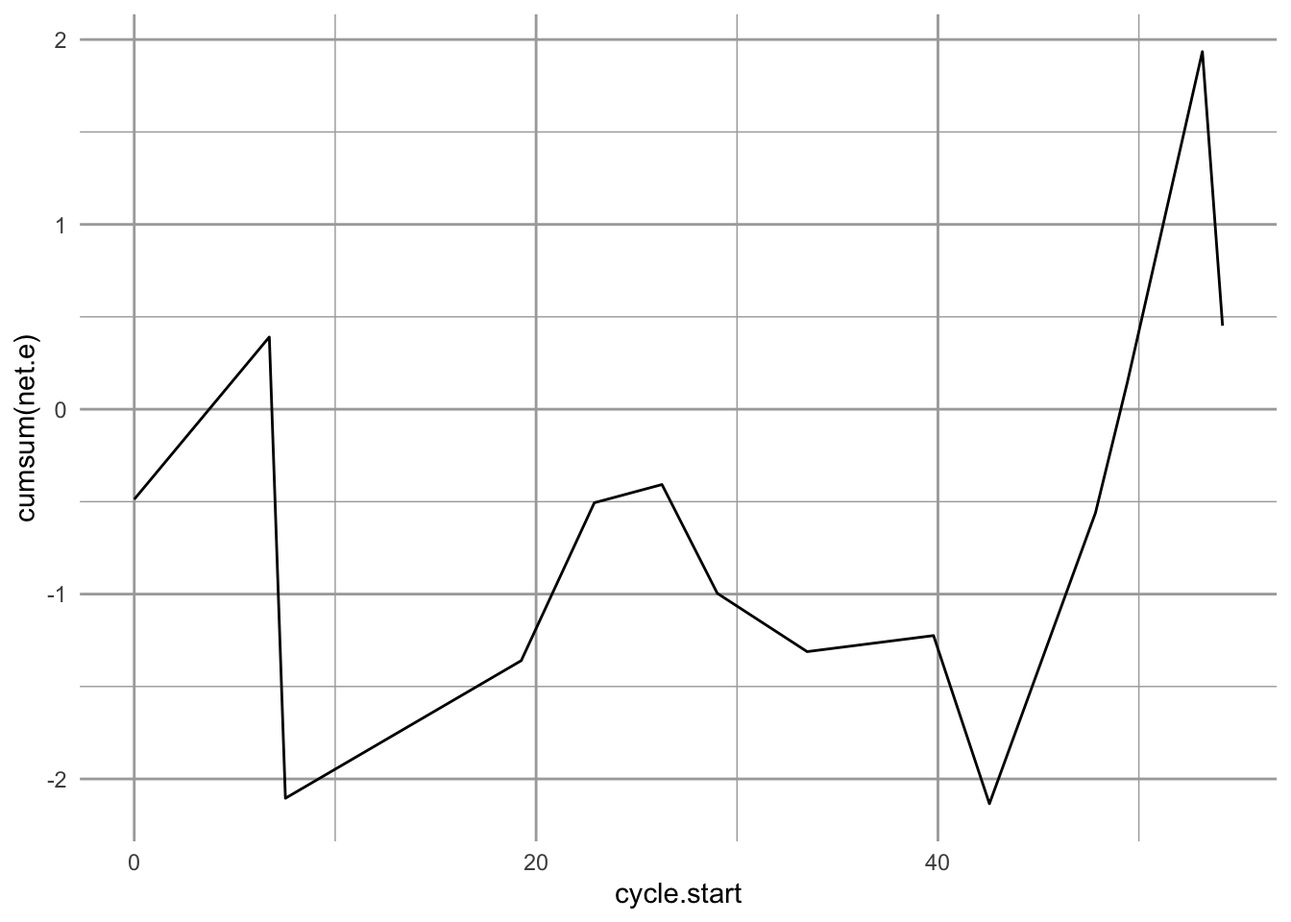
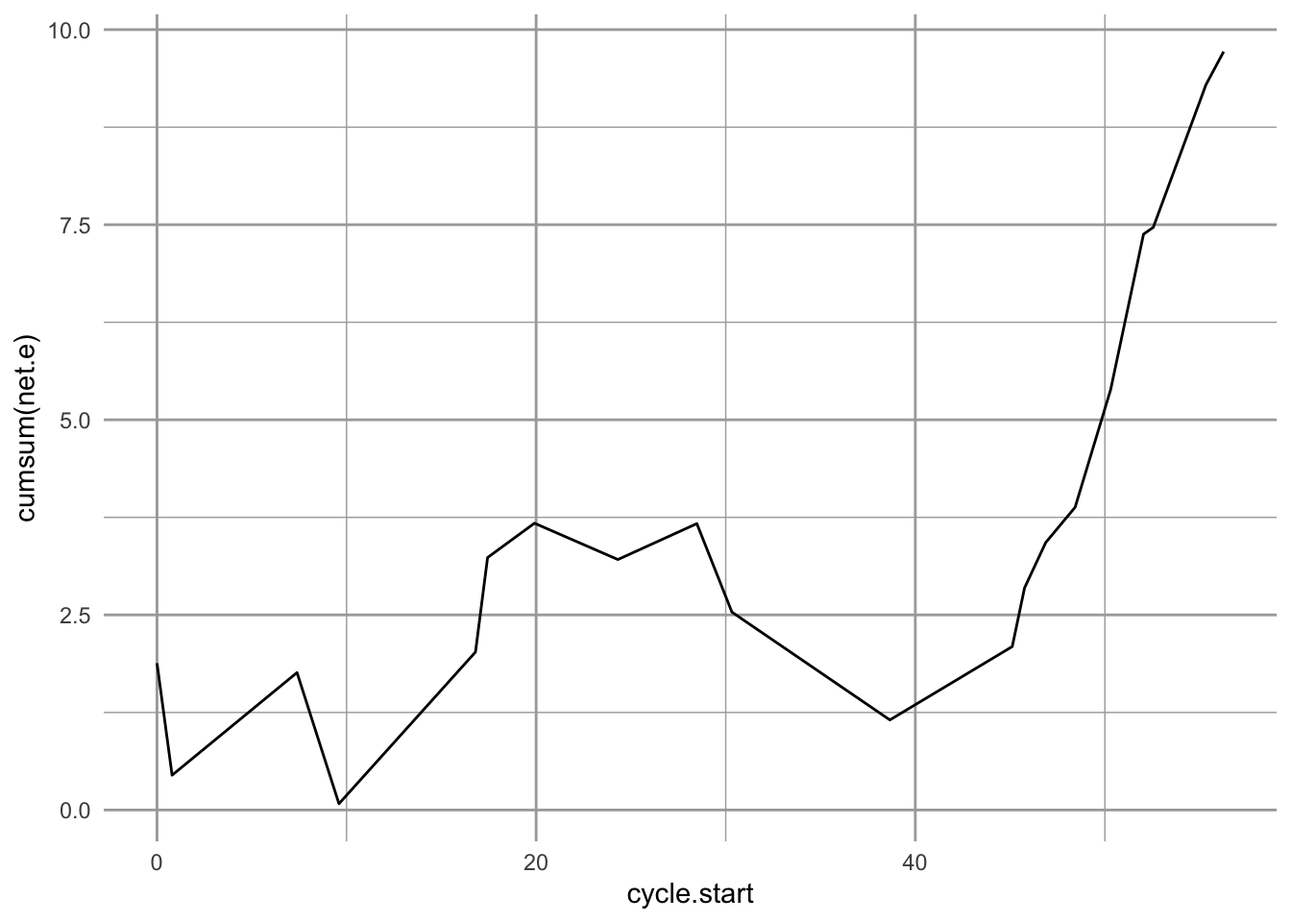
Tuesday_aft

diff --git a/docs/references.html b/docs/references.html
@@ -4,11 +4,11 @@
 
   <meta charset="utf-8" />
   <meta http-equiv="X-UA-Compatible" content="IE=edge" />
-  <title>Primer of Ecology with R</title>
-  <meta name="description" content="Primer of Ecology with R" />
+  <title>3 References | Primer of Ecology with R</title>
+  <meta name="description" content="3 References | Primer of Ecology with R" />
   <meta name="generator" content="bookdown 0.20 and GitBook 2.6.7" />
 
-  <meta property="og:title" content="Primer of Ecology with R" />
+  <meta property="og:title" content="3 References | Primer of Ecology with R" />
   <meta property="og:type" content="book" />
   
   
@@ -16,7 +16,7 @@
   <meta name="github-repo" content="HankStevens/Primer-of-Ecology" />
 
   <meta name="twitter:card" content="summary" />
-  <meta name="twitter:title" content="Primer of Ecology with R" />
+  <meta name="twitter:title" content="3 References | Primer of Ecology with R" />
   
   
   
@@ -31,8 +31,8 @@
   <meta name="apple-mobile-web-app-status-bar-style" content="black" />
   
   
+<link rel="prev" href="oft.html"/>
 
-<link rel="next" href="theory.html"/>
 <script src="libs/jquery-2.2.3/jquery.min.js"></script>
 <link href="libs/gitbook-2.6.7/css/style.css" rel="stylesheet" />
 <link href="libs/gitbook-2.6.7/css/plugin-table.css" rel="stylesheet" />
@@ -171,52 +171,102 @@ code span.wa { color: #60a0b0; font-weight: bold; font-style: italic; } /* Warni
           <div class="page-inner">
 
             <section class="normal" id="section-">
-<div id="header">
-<h1 class="title">Primer of Ecology with R</h1>
-<p class="author"><em>Hank Stevens</em></p>
-<p class="date"><em>2020-08-18</em></p>
+<div id="references" class="section level1">
+<h1><span class="header-section-number">3</span> References</h1>
+
+<div id="refs" class="references">
+<div>
+<p>Banavar, Jayanth R, John Damuth, Amos Maritan, Andrea Rinaldo, Geoffrey B West, and Brian J. Enquist. 2002. “Modelling universality and scaling - communications arising.” <em>Nature</em> 420 (December): 626–27.</p>
 </div>
-<div id="preface" class="section level1 unnumbered">
-<h1>Preface</h1>
-
-<p>In spite of the presumptuous title, my goals for this book are modest. I wrote it as</p>
-<ul>
-<li>the manual I wish I had in graduate school, and</li>
-<li>a primer for our graduate course in Population and Community Ecology at Miami University.<a href="#fn1" class="footnote-ref" id="fnref1"><sup>1</sup></a></li>
-</ul>
-<p>It is my hope that readers can enjoy the  and ignore the R code, if they care to. Toward this end, I tried to make the code easy to ignore, by either putting boxes around it, or simply concentrating code in some sections and keeping it out of other sections.</p>
-<p>It is also my hope that ecologists interested in learning R will have a rich yet gentle introduction to this amazing programming language. Toward that end, I have included some useful functions in an R package called . Like nearly all R packages, it is available through the R projects repositories, the CRAN mirrors. See the Appendix for an introduction to the R language.</p>
-<p>I have a hard time learning something on my own, unless I can  something with the material. Learning ecology is no different, and I find that my students and I learn theory best when we write down formulae, manipulate them, and explore consequences of rearrangement. This typically starts with copying down, verbatim, an expression in a book or paper. Therefore, I encourage readers to take pencil to paper, and fingers to keyboard, and copy expressions they see in this book. After that, make sure that what I have done is correct by trying some of the same rearrangements and manipulations I have done. In addition, try things that aren’t in the book — have fun.</p>
-
-<p>For centuries, musicians and composers have learned their craft in part by  to works of others. Physical embodiment of the musical notes and their sequences helped them learn composition. I have it on great authority that most theoreticians (and other mathematicians) do the same thing — they start by copying down mathematical expressions. This physical process helps get the content under their skin and through their skull. I encourage you to do the same. Whether otherwise indicated or not, let the first assigned problem at the end of each chapter be to copy down, with a pencil and paper, the mathematical expression presented in that chapter. In my own self-guided learning, I have often taken this simple activity for granted and have discounted its value — to my own detriment. I am not surprised how often students also take this activity for granted, and similarly suffer the consequences.  the logic of something is not always enough — sometimes we have to actually  the logic for ourselves.</p>
-<p>Using a text editor (such as the simple one in the R GUI) is one of the huge benefits of using R. Using a text editor to write code and to make extensive comments to yourself (and others!) makes R  interactive. You interact with yourself by putting your thoughts on (virtual) paper, highlighting concepts and details you learn along the way, and documenting clearly what it is you have done. The code and the comments are two halves of the whole. Your comments also allow you to interact with others in a very complete way. You cannot realistically and reliably interact with others unless you put something in writing. If you use an application that is a pure GUI, you would have to describe the buttons you click and be absolutely certain that you leave nothing out and that you can actually communicate what you did. By writing and commenting code, you can send your scripts to anyone (your students, employees, boss, regulatory agency, collaborators).</p>
-
-<p>It may be useful to compare this book to others of a similar ilk. This book bears its closest similarities to two other wonderful primers: Gotelli’s , and Roughgarden’s . I am more familiar with these books than any other introductory texts, and I am greatly indebted to these authors for their contributions to my education and the discipline as a whole.</p>
-<p>My book, geared toward graduate students, includes more advanced material than Gotelli’s primer, but most of the ecological topics are similar. I attempt to start in the same place (e.g., ``What is geometric growth?’’), but I develop many of the ideas much further. Unlike Gotelli, I do not cover life tables at all, but rather, I devote an entire chapter to . I include a chapter on community structure and diversity, including , , , and , as well as . My book also includes code to implement most of the ideas, whereas Gotelli’s primer does not.</p>
-<p>This book also differs from Roughgarden’s primer, in that I use the Open Source R programming language, rather than Matlab, and I do not cover physiology or evolution. My philosphical approach is similar, however, as I tend to ``talk’’ to the reader, and we fall down the rabbit hole together.</p>
-<p>Aside from Gotelli and Roughgarden’s books, this book bears similarity in content to several other wonderful introductions to mathematical ecology or biology. I could have cited repeatedly (and in some places did so) the following: Ellner and Guckenheimer (2006), Gurney and Nisbet (1998), Kingsland (1985), MacArthur (1972), Magurran (2004), May (2001), Morin (1999), Otto and Day (2006), and Vandermeer and Goldberg (2007). Still others exist, but I have not yet had the good fortune to dig too deeply into them.</p>
-
-<p>I am indebted to Scott Meiners and his colleagues for their generous sharing of data, metadata, and statistical summaries from the Buell-Small Succession Study (<a href="http://www.ecostudies.org/bss/" class="uri">http://www.ecostudies.org/bss/</a>), a 50<span class="math inline">\(+\)</span> year study of secondary succession (supported in part by NSF grant DEB-0424605) in the North American temperate deciduous forest biome. I would like to thank Stephen Ellner for Ross’s Bombay death data and for R code and insight over the past few years. I am also indebted to Tom Crist and his colleagues for sharing some of their moth data (work supported by The Nature Conservancy Ecosystem Research Program
-NSF DEB-0235369).</p>
-<p>I am grateful for the generosity of early reviewers and readers, each of whom has contributed much to the quality of this work: Jeremy Ash, Tom Crist, David Gorchov, Raphael Herrera-Herrera, Thomas Petzoldt, James Vonesh, as well as several anonymous reviewers, and the students of our Population and Community Ecology class. I am also grateful for the many conversations and emails shared with four wonderful mathematicians and theoreticians: Jayanth Banavar, Ben bolker, Stephen Ellner, Amit Shukla, and Steve Wright — I never have a conversation with these people without learning something. I have been particularly fortunate to have team-taught Population and Community Ecology at Miami University with two wonderful scientists and educators, Davd Gorchov and Thomas Crist. Only with this experience, of working closely with these colleagues, have I been able to attempt this book. It should go without saying, but I will emphasis, that the mistakes in this book are mine, and there would be many more but for the sharp eyes and insightful minds of many other people.</p>
-<p>I am also deeply indebted to the R Core Development Team for creating, maintaining and pushing forward the R programming language and environment . Like the air I breathe, I cannot imagine my (professional) life without it. I would especially like to thank Friedrich Leisch for the development of , which makes literate programming easy . Because I rely on Aquamacs, ESS, , and a host of other Open Source programs, I am deeply grateful to those who create and distribute these amazing tools.</p>
-<p>A few other R packages bear special mention. First, Ben Bolker’s text  and packages for modeling ecological data ( and ) are broadly applicable. Second, Thomas Petzoldt’s and Karsten Rinke’s  package provides a general computational architecture for ecological models, and implements many wonderful examples . Much of what is done in this primer (especially in chapters 1, 3–6, 8) can be done with , and sometimes done better. Third, Robin Hankin’s  package is an excellent resource for exploring ecological neutral theory (chapter 10) . Last, I relied heavily on the   and  packages .</p>
-<p>Last, and most importantly, I would like to thank those to whom this book is dedicated, whose love and senses of humor make it all worthwhile.</p>
-
+<div>
+<p>Banavar, J R, a Maritan, and a Rinaldo. 1999. “Size and form in efficient transportation networks.” <em>Nature</em> 399 (6732): 130–2.</p>
 </div>
-<div class="footnotes">
-<hr />
-<ol start="1">
-<li id="fn1"><p>Miami University is located in the Miami River valley in Oxford, Ohio, USA; the region is home to the Myaamia tribe that dwelled here prior to European occupation.<a href="index.html#fnref1" class="footnote-back">↩</a></p></li>
-</ol>
+<div>
+<p>Banavar, J. R., M. E. Moses, J. H. Brown, J. Damuth, A. Rinaldo, R. M. Sibly, and A. Maritan. 2010. “A general basis for quarter-power scaling in animals.” <em>Proceedings of the National Academy of Sciences</em> 107 (36): 15816–20.</p>
 </div>
+<div>
+<p>Beckerman, Andrew, Owen L. Petchey, and Peter J. Morin. 2010. “Adaptive Foragers and Community Ecology: Linking Individuals to Communities and Ecosystems.” <em>Functional Ecology</em> 24 (1): 1–6. <a href="https://doi.org/10.1111/j.1365-2435.2009.01673.x">https://doi.org/10.1111/j.1365-2435.2009.01673.x</a>.</p>
+</div>
+<div>
+<p>Boenigk, J., C. Metz, K. Jürgens, and H. Arndt. 2002. “Food Concentration-Dependent Regulation of Food Selectivity of Interception Feeding Bacterivorous Nanoflagellates.” <em>Aquatic Microbial Ecology</em> 27: 195–202.</p>
+</div>
+<div>
+<p>Brown, J H, J F Gillooly, A P Allen, V M Savage, and G B West. 2004. “Toward a metabolic theory of ecology.” <em>Ecology</em> 85 (7): 1771–89.</p>
+</div>
+<div>
+<p>Charnov, E. L. 1976. “Optimal foraging theory: the marginal value theorem.” <em>Theoretical Population Biology</em> 9: 129–36.</p>
+</div>
+<div>
+<p>Ellner, S. P. 2009. “Lecture Notes, Bioee 4600 Theoretical Ecology , Cornell University.”</p>
+</div>
+<div>
+<p>Emlen, J. M. 1966. “The Role of Time and Energy in Food Preference.” <em>The American Naturalist</em> 100: 611–17.</p>
+</div>
+<div>
+<p>Gillooly, James F. 2000. “Effect of body size and temperature on generation time in zooplankton” 22 (2): 241–51.</p>
+</div>
+<div>
+<p>Glazier, Douglas S. 2018. “Rediscovering and Reviving Old Observations and Explanations of Metabolic Scaling in Living Systems.” <em>Systems</em> 6 (4).</p>
+</div>
+<div>
+<p>Kleiber, M. 1932. “Body Size and Metabolism.” <em>Hilgardia</em>, 315–32.</p>
+</div>
+<div>
+<p>MacArthur, R H, and E R Pianka. 1966. “On optimal use of a patchy environment.” <em>The American Naturalist</em> 100: 603–9.</p>
+</div>
+<div>
+<p>Marquet, Pablo A., Andrew P. Allen, James H. Brown, Jennifer A. Dunne, Brian J. Enquist, James F. Gillooly, Patricia A. Gowaty, et al. 2014. “On theory in ecology.” <em>BioScience</em> 64 (8): 701–10.</p>
+</div>
+<div>
+<p>Niklas, Karl J., and Brian J. Enquist. 2001. “Invariant scaling relationships for interspecific plant biomass production rates and body size.” <em>Proceedings of the National Academy of Sciences of the United States of America</em> 98 (5): 2922–7.</p>
+</div>
+<div>
+<p>O’Neill, RV, DL De Angelis, JB Waide, and TFH Allen. 1986. <em>A Hierarchical Concept of Ecosystems.</em> Vol. 23. Monographs in Population Biology. Princeton University Press, Princeton, New Jersey, USA.</p>
+</div>
+<div>
+<p>Rose, Kevin C., Rose A. Graves, Winslow D. Hansen, Brian J. Harvey, Jiangxiao Qiu, Stephen A. Wood, Carly Ziter, and Monica G. Turner. 2017. “Historical foundations and future directions in macrosystems ecology.” <em>Ecology Letters</em> 20 (2): 147–57.</p>
+</div>
+<div>
+<p>Scheiner, Samuel M. 2010. “Toward a conceptual framework for biology.” <em>Quarterly Review of Biology</em> 85 (3): 293–318.</p>
+</div>
+<div>
+<p>Scheiner, S M, and M. R. Willig. 2011. <em>The Theory of Ecology</em>.</p>
+</div>
+<div>
+<p>Sih, A. 2011. “Foraging Theory.” In, edited by S. M. Scheiner and M. R. Willig. Chicago, IL, USA: University of Chicago Press.</p>
+</div>
+<div>
+<p>Stephens, D W, and J R Krebs. 1986. <em>Foraging {T}heory</em>. Edited by J. R. Krebs and T. H. Clutton-Brock. Monographs in Behavior and Ecology. Princeton, University Press, Princeton, NJ, USA: Princeton University Press.</p>
+</div>
+<div>
+<p>West, G B, J H Brown, and B J Enquist. 1997. “A general model for the origin of allometric scaling laws in biology.” <em>Science</em> 276: 122–26.</p>
+</div>
+</div>
+</div>
+
+
+
+
+
+
+
+
+
+
+
+
+
+
+
+
+
             </section>
 
           </div>
         </div>
       </div>
+<a href="oft.html" class="navigation navigation-prev navigation-unique" aria-label="Previous page"><i class="fa fa-angle-left"></i></a>
 
-<a href="theory.html" class="navigation navigation-next navigation-unique" aria-label="Next page"><i class="fa fa-angle-right"></i></a>
     </div>
   </div>
 <script src="libs/gitbook-2.6.7/js/app.min.js"></script>

diff --git a/docs/oft.html b/docs/oft.html
@@ -24,7 +24,7 @@
 <meta name="author" content="Hank Stevens" />
 
 
-<meta name="date" content="2020-08-17" />
+<meta name="date" content="2020-08-18" />
 
   <meta name="viewport" content="width=device-width, initial-scale=1" />
   <meta name="apple-mobile-web-app-capable" content="yes" />
@@ -32,7 +32,7 @@
   
   
 <link rel="prev" href="theory.html"/>
-
+<link rel="next" href="references.html"/>
 <script src="libs/jquery-2.2.3/jquery.min.js"></script>
 <link href="libs/gitbook-2.6.7/css/style.css" rel="stylesheet" />
 <link href="libs/gitbook-2.6.7/css/plugin-table.css" rel="stylesheet" />
@@ -153,6 +153,7 @@ code span.wa { color: #60a0b0; font-weight: bold; font-style: italic; } /* Warni
 <li class="chapter" data-level="2.3.1" data-path="oft.html"><a href="oft.html#lab-exercise"><i class="fa fa-check"></i><b>2.3.1</b> Lab exercise</a></li>
 </ul></li>
 </ul></li>
+<li class="chapter" data-level="3" data-path="references.html"><a href="references.html"><i class="fa fa-check"></i><b>3</b> References</a></li>
 </ul>
 
       </nav>
@@ -266,7 +267,7 @@ A major question in OFT is whether a forager should include a particular prey ty
 <span id="cb7-2"><a href="oft.html#cb7-2"></a>myData &lt;-<span class="st"> </span><span class="kw">data.frame</span>( <span class="dt">lambda=</span><span class="kw">c</span>(<span class="dv">0</span>, <span class="dv">10</span>) ) <span class="co"># data you need</span></span>
 <span id="cb7-3"><a href="oft.html#cb7-3"></a><span class="kw">ggplot</span>(<span class="dt">data=</span>myData, <span class="kw">aes</span>(<span class="dt">x=</span>lambda)) <span class="op">+</span><span class="st"> </span><span class="co"># set the basic properties of the plot</span></span>
 <span id="cb7-4"><a href="oft.html#cb7-4"></a><span class="st">  </span><span class="co"># in the stat_function, we indicate the parameters in our equation.</span></span>
-<span id="cb7-5"><a href="oft.html#cb7-5"></a><span class="st">  </span><span class="kw">stat_function</span>(<span class="dt">fun=</span>eq, <span class="dt">geom=</span><span class="st">&quot;line&quot;</span>) <span class="op">+</span></span>
+<span id="cb7-5"><a href="oft.html#cb7-5"></a><span class="st">  </span><span class="kw">stat_function</span>(<span class="dt">fun=</span>G.T, <span class="dt">geom=</span><span class="st">&quot;line&quot;</span>) <span class="op">+</span></span>
 <span id="cb7-6"><a href="oft.html#cb7-6"></a><span class="st">  </span><span class="kw">ylab</span>(<span class="kw">bquote</span>(<span class="kw">over</span>(lambda<span class="op">*</span>e, <span class="dv">1</span> <span class="op">+</span><span class="st"> </span>lambda<span class="op">*</span>h))) <span class="op">+</span><span class="st"> </span><span class="kw">xlab</span>(<span class="kw">bquote</span>(lambda))  <span class="co"># add labels</span></span></code></pre></div>
 <div class="figure"><span id="fig:selectivity"></span>
 <img src="figs/selectivity-1.png" alt="Selectivity increases with average encounter rates." width="60%" />
@@ -401,12 +402,12 @@ Figure 2.5: Energy gain vs. time: The origin is when the forager enters the pat
 <div class="sourceCode" id="cb9"><pre class="sourceCode r"><code class="sourceCode r"><span id="cb9-1"><a href="oft.html#cb9-1"></a>myOut &lt;-<span class="st"> </span><span class="kw">optimal.forager</span>(<span class="dt">Total=</span><span class="dv">60</span>)</span>
 <span id="cb9-2"><a href="oft.html#cb9-2"></a><span class="kw">str</span>(myOut)</span></code></pre></div>
 <pre><code>## List of 5
-##  $ N     : num 14
-##  $ G     : num 0.452
-##  $ Tt    : num 60.9
-##  $ series:&#39;data.frame&#39;:	14 obs. of  2 variables:
-##   ..$ net.e      : num [1:14] -0.487 0.878 -2.495 0.745 0.854 ...
-##   ..$ cycle.start: num [1:14] 0 6.72 7.52 19.26 22.9 ...
+##  $ N     : num 20
+##  $ G     : num 9.72
+##  $ Tt    : num 60.7
+##  $ series:&#39;data.frame&#39;:	20 obs. of  2 variables:
+##   ..$ net.e      : num [1:20] 1.88 -1.44 1.31 -1.68 1.94 ...
+##   ..$ cycle.start: num [1:20] 0 0.796 7.385 9.599 16.8 ...
 ##  $ params:List of 7
 ##   ..$ e     : num [1:2] 2 1
 ##   ..$ h     : num [1:2] 0.5 0.5
@@ -433,7 +434,9 @@ Figure 2.6: The cumulative energy capital of a forager goes down while searching
 <p><em>Use this simulation</em> to help solidify in your own mind predictions of the simple prey model. How should we do that?</p>
 <p>What is the prediction we are interested in?</p>
 <p>Prediction: Include type 2 if
-<span class="math display" id="eq:prediction">\[\frac{e_2}{h_2} &gt; \frac{\lambda_1 e_1 }{\tag{2.2}1} (#eq:prediction)\]</span></p>
+<span class="math display" id="eq:prediction">\[\begin{equation}
+\frac{e_2}{h_2} &gt; \frac{\lambda_1 e_1 }{1 + \lambda_1 h_1} \tag{2.2}
+\end{equation}\]</span></p>
 <div class="figure"><span id="fig:preypred"></span>
 <img src="figs/preypred-1.png" alt="The right hand side of our prediction" width="100%" />
 <p class="caption">
@@ -452,95 +455,10 @@ Figure 2.7: The right hand side of our prediction
 <li>Use the simulation <code>optimal.forager()</code> to confirm your predictions.</li>
 </ol>
 
-<div id="refs" class="references">
-<div>
-<p>Banavar, Jayanth R, John Damuth, Amos Maritan, Andrea Rinaldo, Geoffrey B West, and Brian J. Enquist. 2002. “Modelling universality and scaling - communications arising.” <em>Nature</em> 420 (December): 626–27.</p>
-</div>
-<div>
-<p>Banavar, J R, a Maritan, and a Rinaldo. 1999. “Size and form in efficient transportation networks.” <em>Nature</em> 399 (6732): 130–2.</p>
-</div>
-<div>
-<p>Banavar, J. R., M. E. Moses, J. H. Brown, J. Damuth, A. Rinaldo, R. M. Sibly, and A. Maritan. 2010. “A general basis for quarter-power scaling in animals.” <em>Proceedings of the National Academy of Sciences</em> 107 (36): 15816–20.</p>
-</div>
-<div>
-<p>Beckerman, Andrew, Owen L. Petchey, and Peter J. Morin. 2010. “Adaptive Foragers and Community Ecology: Linking Individuals to Communities and Ecosystems.” <em>Functional Ecology</em> 24 (1): 1–6. <a href="https://doi.org/10.1111/j.1365-2435.2009.01673.x">https://doi.org/10.1111/j.1365-2435.2009.01673.x</a>.</p>
-</div>
-<div>
-<p>Boenigk, J., C. Metz, K. Jürgens, and H. Arndt. 2002. “Food Concentration-Dependent Regulation of Food Selectivity of Interception Feeding Bacterivorous Nanoflagellates.” <em>Aquatic Microbial Ecology</em> 27: 195–202.</p>
-</div>
-<div>
-<p>Brown, J H, J F Gillooly, A P Allen, V M Savage, and G B West. 2004. “Toward a metabolic theory of ecology.” <em>Ecology</em> 85 (7): 1771–89.</p>
-</div>
-<div>
-<p>Charnov, E. L. 1976. “Optimal foraging theory: the marginal value theorem.” <em>Theoretical Population Biology</em> 9: 129–36.</p>
-</div>
-<div>
-<p>Ellner, S. P. 2009. “Lecture Notes, Bioee 4600 Theoretical Ecology , Cornell University.”</p>
-</div>
-<div>
-<p>Emlen, J. M. 1966. “The Role of Time and Energy in Food Preference.” <em>The American Naturalist</em> 100: 611–17.</p>
-</div>
-<div>
-<p>Gillooly, James F. 2000. “Effect of body size and temperature on generation time in zooplankton” 22 (2): 241–51.</p>
-</div>
-<div>
-<p>Glazier, Douglas S. 2018. “Rediscovering and Reviving Old Observations and Explanations of Metabolic Scaling in Living Systems.” <em>Systems</em> 6 (4).</p>
-</div>
-<div>
-<p>Kleiber, M. 1932. “Body Size and Metabolism.” <em>Hilgardia</em>, 315–32.</p>
-</div>
-<div>
-<p>MacArthur, R H, and E R Pianka. 1966. “On optimal use of a patchy environment.” <em>The American Naturalist</em> 100: 603–9.</p>
-</div>
-<div>
-<p>Marquet, Pablo A., Andrew P. Allen, James H. Brown, Jennifer A. Dunne, Brian J. Enquist, James F. Gillooly, Patricia A. Gowaty, et al. 2014. “On theory in ecology.” <em>BioScience</em> 64 (8): 701–10.</p>
-</div>
-<div>
-<p>Niklas, Karl J., and Brian J. Enquist. 2001. “Invariant scaling relationships for interspecific plant biomass production rates and body size.” <em>Proceedings of the National Academy of Sciences of the United States of America</em> 98 (5): 2922–7.</p>
-</div>
-<div>
-<p>O’Neill, RV, DL De Angelis, JB Waide, and TFH Allen. 1986. <em>A Hierarchical Concept of Ecosystems.</em> Vol. 23. Monographs in Population Biology. Princeton University Press, Princeton, New Jersey, USA.</p>
-</div>
-<div>
-<p>Rose, Kevin C., Rose A. Graves, Winslow D. Hansen, Brian J. Harvey, Jiangxiao Qiu, Stephen A. Wood, Carly Ziter, and Monica G. Turner. 2017. “Historical foundations and future directions in macrosystems ecology.” <em>Ecology Letters</em> 20 (2): 147–57.</p>
-</div>
-<div>
-<p>Scheiner, Samuel M. 2010. “Toward a conceptual framework for biology.” <em>Quarterly Review of Biology</em> 85 (3): 293–318.</p>
-</div>
-<div>
-<p>Scheiner, S M, and M. R. Willig. 2011. <em>The Theory of Ecology</em>.</p>
-</div>
-<div>
-<p>Sih, A. 2011. “Foraging Theory.” In, edited by S. M. Scheiner and M. R. Willig. Chicago, IL, USA: University of Chicago Press.</p>
-</div>
-<div>
-<p>Stephens, D W, and J R Krebs. 1986. <em>Foraging {T}heory</em>. Edited by J. R. Krebs and T. H. Clutton-Brock. Monographs in Behavior and Ecology. Princeton, University Press, Princeton, NJ, USA: Princeton University Press.</p>
-</div>
-<div>
-<p>West, G B, J H Brown, and B J Enquist. 1997. “A general model for the origin of allometric scaling laws in biology.” <em>Science</em> 276: 122–26.</p>
 </div>
 </div>
 </div>
-</div>
-</div>
-
-
-
-
-
-
-
-
-
-
-
-
-
-
-
-
-
-<h3>References</h3>
+<h3> References</h3>
 <div id="refs" class="references">
 <div id="ref-Beckerman2010">
 <p>Beckerman, Andrew, Owen L. Petchey, and Peter J. Morin. 2010. “Adaptive Foragers and Community Ecology: Linking Individuals to Communities and Ecosystems.” <em>Functional Ecology</em> 24 (1): 1–6. <a href="https://doi.org/10.1111/j.1365-2435.2009.01673.x">https://doi.org/10.1111/j.1365-2435.2009.01673.x</a>.</p>
@@ -581,8 +499,8 @@ Figure 2.7: The right hand side of our prediction
           </div>
         </div>
       </div>
-<a href="theory.html" class="navigation navigation-prev navigation-unique" aria-label="Previous page"><i class="fa fa-angle-left"></i></a>
-
+<a href="theory.html" class="navigation navigation-prev " aria-label="Previous page"><i class="fa fa-angle-left"></i></a>
+<a href="references.html" class="navigation navigation-next " aria-label="Next page"><i class="fa fa-angle-right"></i></a>
     </div>
   </div>
 <script src="libs/gitbook-2.6.7/js/app.min.js"></script>

diff --git a/docs/theory.html b/docs/theory.html
@@ -24,7 +24,7 @@
 <meta name="author" content="Hank Stevens" />
 
 
-<meta name="date" content="2020-08-17" />
+<meta name="date" content="2020-08-18" />
 
   <meta name="viewport" content="width=device-width, initial-scale=1" />
   <meta name="apple-mobile-web-app-capable" content="yes" />
@@ -153,6 +153,7 @@ code span.wa { color: #60a0b0; font-weight: bold; font-style: italic; } /* Warni
 <li class="chapter" data-level="2.3.1" data-path="oft.html"><a href="oft.html#lab-exercise"><i class="fa fa-check"></i><b>2.3.1</b> Lab exercise</a></li>
 </ul></li>
 </ul></li>
+<li class="chapter" data-level="3" data-path="references.html"><a href="references.html"><i class="fa fa-check"></i><b>3</b> References</a></li>
 </ul>
 
       </nav>
@@ -462,7 +463,7 @@ Figure 1.4: changing the scales of the axes to linearize power law relations. No
 
 </div>
 </div>
-<h3>References</h3>
+<h3> References</h3>
 <div id="refs" class="references">
 <div id="ref-Banavar2002">
 <p>Banavar, Jayanth R, John Damuth, Amos Maritan, Andrea Rinaldo, Geoffrey B West, and Brian J. Enquist. 2002. “Modelling universality and scaling - communications arising.” <em>Nature</em> 420 (December): 626–27.</p>
